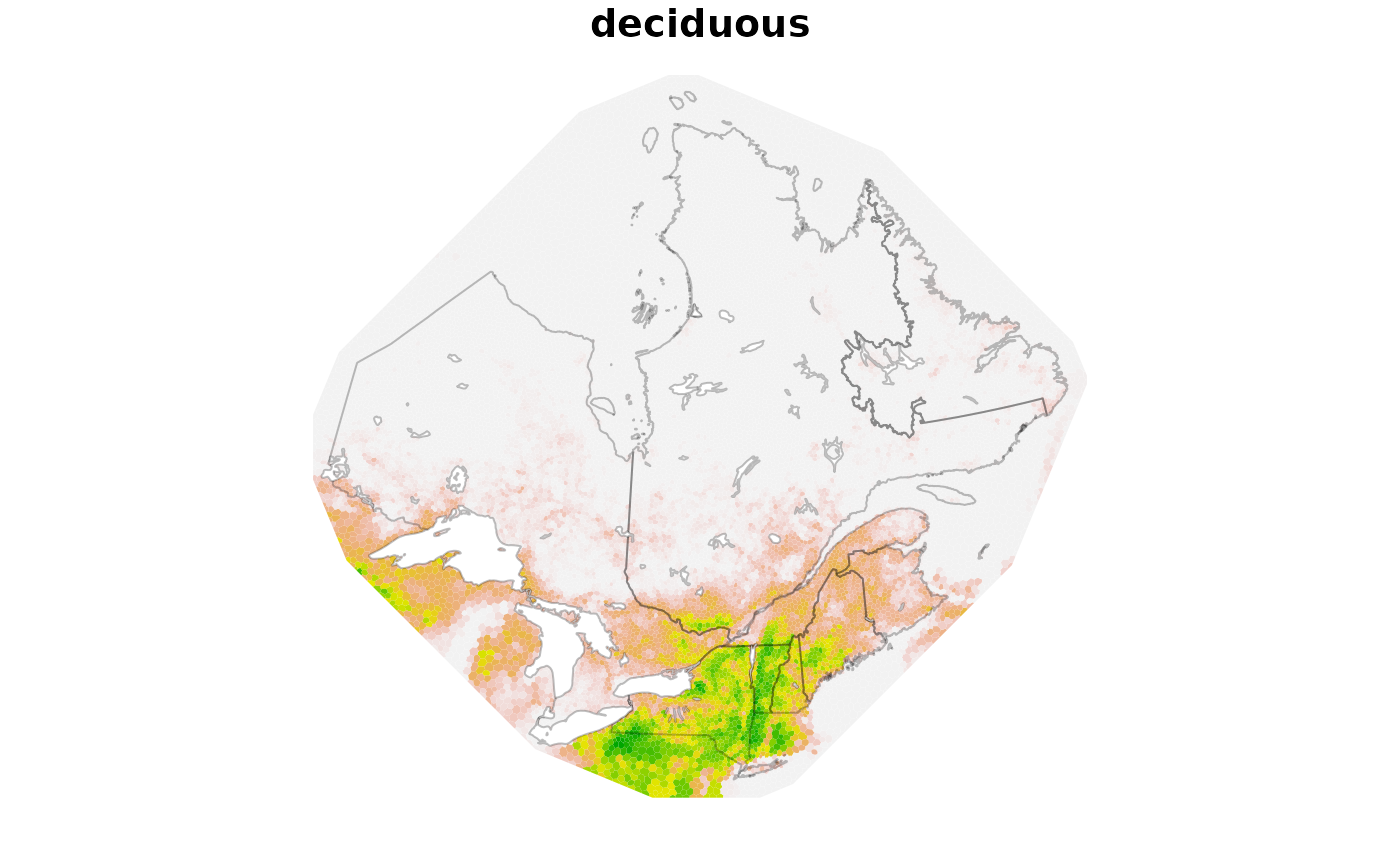
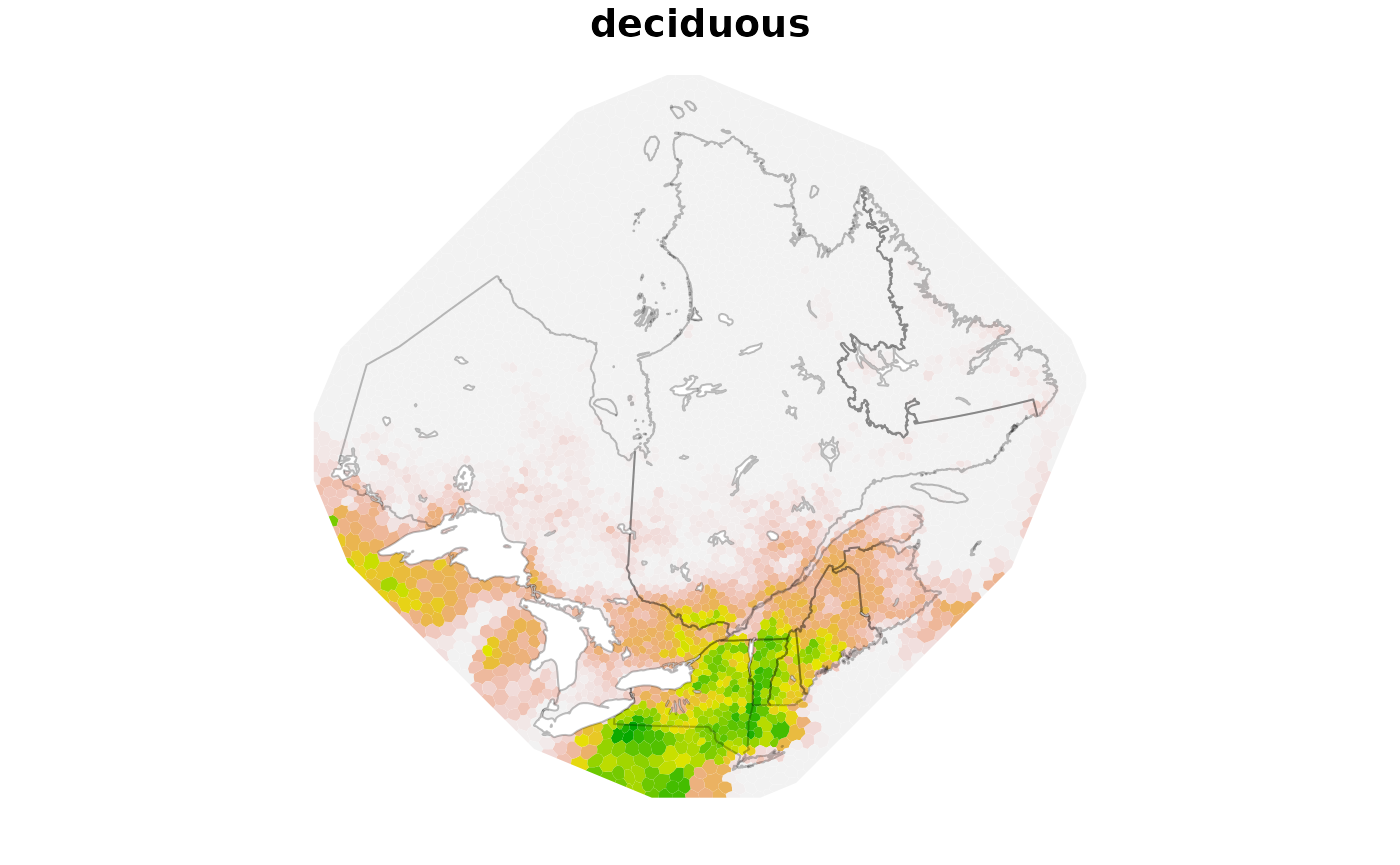
some minor updates

diff --git a/docs/articles/ewlgcpSDM.html b/docs/articles/ewlgcpSDM.html
@@ -36,6 +36,7 @@
 <li class="nav-item"><form class="form-inline" role="search">
  <input class="form-control" type="search" name="search-input" id="search-input" autocomplete="off" aria-label="Search site" placeholder="Search for" data-search-index="../search.json">
 </form></li>
+<li class="nav-item"><a class="external-link nav-link" href="https://github.com/BiodiversiteQuebec/ewlgcpSDM/" aria-label="GitHub"><span class="fa fab fa-github fa-lg"></span></a></li>
       </ul>
 </div>
 
@@ -52,7 +53,7 @@
       <h1>ewlgcpSDM</h1>
             
       
-
+      <small class="dont-index">Source: <a href="https://github.com/BiodiversiteQuebec/ewlgcpSDM/blob/HEAD/vignettes/ewlgcpSDM.Rmd" class="external-link"><code>vignettes/ewlgcpSDM.Rmd</code></a></small>
       <div class="d-none name"><code>ewlgcpSDM.Rmd</code></div>
     </div>
 
@@ -93,7 +94,6 @@ help with the mapping later.</p>
 <span><span class="co"># keep Québec and bordering provinces/states as a buffer</span></span>
 <span><span class="va">region</span> <span class="op">&lt;-</span> <span class="va">na</span><span class="op">[</span><span class="va">na</span><span class="op">$</span><span class="va">NAME_1</span> <span class="op"><a href="https://rspatial.github.io/terra/reference/match.html" class="external-link">%in%</a></span> <span class="fu"><a href="https://rdrr.io/r/base/c.html" class="external-link">c</a></span><span class="op">(</span><span class="st">"Québec"</span>, <span class="st">"New Brunswick"</span>, <span class="st">"Maine"</span>, <span class="st">"Vermont"</span>,</span>
 <span>    <span class="st">"New Hampshire"</span>, <span class="st">"New York"</span>, <span class="st">"Ontario"</span><span class="op">)</span>, <span class="op">]</span></span>
-<span></span>
 <span><span class="co"># split NF into different polygons</span></span>
 <span><span class="va">labrador</span> <span class="op">&lt;-</span> <span class="fu"><a href="https://rdrr.io/pkg/rmapshaper/man/ms_explode.html" class="external-link">ms_explode</a></span><span class="op">(</span><span class="va">na</span><span class="op">[</span><span class="va">na</span><span class="op">$</span><span class="va">NAME_1</span> <span class="op"><a href="https://rspatial.github.io/terra/reference/match.html" class="external-link">%in%</a></span> <span class="fu"><a href="https://rdrr.io/r/base/c.html" class="external-link">c</a></span><span class="op">(</span><span class="st">"Newfoundland and Labrador"</span><span class="op">)</span>,</span>
 <span>    <span class="op">]</span><span class="op">)</span></span>
@@ -101,8 +101,7 @@ help with the mapping later.</p>
 <span><span class="va">region</span> <span class="op">&lt;-</span> <span class="fu"><a href="https://rdrr.io/r/base/cbind.html" class="external-link">rbind</a></span><span class="op">(</span><span class="va">region</span>, <span class="va">labrador</span><span class="op">)</span></span>
 <span><span class="va">qc</span> <span class="op">&lt;-</span> <span class="fu"><a href="https://rdrr.io/pkg/rmapshaper/man/ms_simplify.html" class="external-link">ms_simplify</a></span><span class="op">(</span><span class="va">region</span>, <span class="fl">0.01</span><span class="op">)</span></span>
 <span></span>
-<span><span class="co"># Add it to the study region</span></span>
-<span><span class="va">region</span> <span class="op">&lt;-</span> <span class="fu"><a href="https://rdrr.io/r/base/cbind.html" class="external-link">rbind</a></span><span class="op">(</span><span class="va">region</span>, <span class="va">labrador</span><span class="op">)</span></span>
+<span><span class="co"># Add it to the study region region&lt;-rbind(region,labrador)</span></span>
 <span></span>
 <span><span class="co"># Simplify polygons to make things faster</span></span>
 <span><span class="va">region</span> <span class="op">&lt;-</span> <span class="fu"><a href="https://rdrr.io/pkg/rmapshaper/man/ms_simplify.html" class="external-link">ms_simplify</a></span><span class="op">(</span><span class="va">region</span>, <span class="fl">0.005</span><span class="op">)</span></span>
@@ -257,10 +256,10 @@ study area diameter and a relatively large outer area for reducing edge
 effects. See <a href="">virgilio</a> for advices on creating a good
 mesh.</p>
 <div class="sourceCode" id="cb10"><pre class="downlit sourceCode r">
-<code class="sourceCode R"><span><span class="va">pedge</span><span class="op">&lt;-</span><span class="fl">0.005</span></span>
+<code class="sourceCode R"><span><span class="va">pedge</span><span class="op">&lt;-</span><span class="fl">0.01</span></span>
 <span><span class="va">edge</span><span class="op">&lt;-</span><span class="fu"><a href="https://rdrr.io/r/base/Extremes.html" class="external-link">min</a></span><span class="op">(</span><span class="fu"><a href="https://rdrr.io/r/base/c.html" class="external-link">c</a></span><span class="op">(</span><span class="fu"><a href="https://rspatial.github.io/terra/reference/diff.html" class="external-link">diff</a></span><span class="op">(</span><span class="fu"><a href="https://r-spatial.github.io/sf/reference/st_bbox.html" class="external-link">st_bbox</a></span><span class="op">(</span><span class="va">region</span><span class="op">)</span><span class="op">[</span><span class="fu"><a href="https://rdrr.io/r/base/c.html" class="external-link">c</a></span><span class="op">(</span><span class="fl">1</span>,<span class="fl">3</span><span class="op">)</span><span class="op">]</span><span class="op">)</span><span class="op">*</span><span class="va">pedge</span>,<span class="fu"><a href="https://rspatial.github.io/terra/reference/diff.html" class="external-link">diff</a></span><span class="op">(</span><span class="fu"><a href="https://r-spatial.github.io/sf/reference/st_bbox.html" class="external-link">st_bbox</a></span><span class="op">(</span><span class="va">region</span><span class="op">)</span><span class="op">[</span><span class="fu"><a href="https://rdrr.io/r/base/c.html" class="external-link">c</a></span><span class="op">(</span><span class="fl">2</span>,<span class="fl">4</span><span class="op">)</span><span class="op">]</span><span class="op">)</span><span class="op">*</span><span class="va">pedge</span><span class="op">)</span><span class="op">)</span></span>
 <span><span class="va">edge</span></span>
-<span><span class="co">#&gt; [1] 12904.38</span></span>
+<span><span class="co">#&gt; [1] 25808.77</span></span>
 <span></span>
 <span><span class="va">mesh</span> <span class="op">&lt;-</span> <span class="fu"><a href="https://rdrr.io/pkg/INLA/man/inla.mesh.2d.html" class="external-link">inla.mesh.2d</a></span><span class="op">(</span>loc.domain <span class="op">=</span> <span class="cn">NULL</span>,</span>
 <span>                     max.edge <span class="op">=</span> <span class="fu"><a href="https://rdrr.io/r/base/c.html" class="external-link">c</a></span><span class="op">(</span><span class="va">edge</span>,<span class="va">edge</span><span class="op">*</span><span class="fl">3</span><span class="op">)</span>,</span>
@@ -329,40 +328,7 @@ species and of the background.</p>
 <div class="sourceCode" id="cb15"><pre class="downlit sourceCode r">
 <code class="sourceCode R"><span></span>
 <span><span class="va">params</span> <span class="op">&lt;-</span> <span class="fu"><a href="../reference/dmesh_effort.html">dmesh_effort</a></span><span class="op">(</span><span class="va">params</span>, obs <span class="op">=</span> <span class="va">obs</span>, background <span class="op">=</span> <span class="va">bg</span>, buffer <span class="op">=</span> <span class="va">buff</span>,</span>
-<span>    adjust <span class="op">=</span> <span class="cn">FALSE</span><span class="op">)</span></span>
-<span></span>
-<span><span class="co"># w &lt;- which((params$effort$nobs == params$effort$nbackground) &amp;</span></span>
-<span><span class="co"># (params$effort$nobs &gt; 0)) params$effort[w, 2:3] &lt;- params$effort[w,</span></span>
-<span><span class="co"># 2:3] * 500 hist(params$effort$nobs / params$effort$nbackground,</span></span>
-<span><span class="co"># breaks = 50)</span></span>
-<span></span>
-<span><span class="co"># w &lt;- which(params$weights == 0) params$effort[w, ] &lt;- 0</span></span>
-<span></span>
-<span><span class="co"># w &lt;- which(params$effort$nbackground &gt; 0) params$effort[w, 2:3] &lt;-</span></span>
-<span><span class="co"># params$effort[w, 1]</span></span>
-<span></span>
-<span><span class="co"># plot(sdm$mean) plot(st_geometry(params$dmesh),add=T)</span></span>
-<span><span class="co"># text(st_coordinates(st_centroid(params$dmesh)), label =</span></span>
-<span><span class="co"># 1:nrow(params$dmesh), cex = 0.5)</span></span>
-<span></span>
-<span><span class="co"># params$effort[c(30, 139),]</span></span>
-<span></span>
-<span><span class="co"># source('https://raw.githubusercontent.com/frousseu/FRutils/refs/heads/master/R/colo.scale.R')</span></span>
-<span><span class="co"># par(mar=c(0,0,0,0)) plot(st_geometry(params$dmesh), col =</span></span>
-<span><span class="co"># colo.scale(params$effort$nobs / params$effort$nbackground,</span></span>
-<span><span class="co"># c('gold', 'forestgreen'))) plot(st_geometry(params$dmesh), col =</span></span>
-<span><span class="co"># colo.scale(ifelse(params$weights &gt; 0, params$weights, NA),</span></span>
-<span><span class="co"># c('gold', 'forestgreen'))) plot(st_geometry(region), add = TRUE)</span></span>
-<span></span>
-<span></span>
-<span><span class="co"># plot(st_geometry(region), add = TRUE)</span></span>
-<span><span class="co"># plot(st_geometry(params$dmesh), add = TRUE)</span></span>
-<span></span>
-<span><span class="co"># mapview(region) + mapview(params$dmesh)</span></span>
-<span></span>
-<span><span class="co"># plot(sdm$mean) plot(st_geometry(region), border = 'red', lwd = 1,</span></span>
-<span><span class="co"># add = T) plot(st_geometry(params$dmeshcuts), border = 'red', add =</span></span>
-<span><span class="co"># T) plot(mesh, add = T)</span></span></code></pre></div>
+<span>    adjust <span class="op">=</span> <span class="cn">FALSE</span><span class="op">)</span></span></code></pre></div>
 </div>
 </div>
 <div class="section level3">
@@ -385,7 +351,6 @@ inhomogeneous point process weighted for effort.</p>
 <span>  prior.sigma <span class="op">=</span> <span class="fu"><a href="https://rdrr.io/r/base/c.html" class="external-link">c</a></span><span class="op">(</span><span class="fl">0.00001</span>, <span class="cn">NA</span><span class="op">)</span>,</span>
 <span>  smooth <span class="op">=</span> <span class="fl">2</span>,</span>
 <span>  num.threads<span class="op">=</span><span class="fl">2</span><span class="op">:</span><span class="fl">2</span>,</span>
-<span>  <span class="co">#blas.num.threads=2,</span></span>
 <span>  control.inla<span class="op">=</span><span class="fu"><a href="https://rdrr.io/r/base/list.html" class="external-link">list</a></span><span class="op">(</span></span>
 <span>    strategy<span class="op">=</span><span class="st">"adaptive"</span>, <span class="co"># "adaptive"</span></span>
 <span>    int.strategy<span class="op">=</span><span class="st">"eb"</span>, <span class="co"># "eb"</span></span>
@@ -435,30 +400,7 @@ the link scale.</p>
 <span><span class="fu">add_shp</span><span class="op">(</span><span class="op">)</span></span></code></pre></div>
 <p><img src="ewlgcpSDM_files/figure-html/unnamed-chunk-18-1.png" width="700"></p>
 <div class="sourceCode" id="cb19"><pre class="downlit sourceCode r">
-<code class="sourceCode R"><span><span class="fu"><a href="https://rdrr.io/r/graphics/par.html" class="external-link">par</a></span><span class="op">(</span>mfrow <span class="op">=</span> <span class="fu"><a href="https://rdrr.io/r/base/c.html" class="external-link">c</a></span><span class="op">(</span><span class="fl">1</span>, <span class="fl">1</span><span class="op">)</span>, mar <span class="op">=</span> <span class="fu"><a href="https://rdrr.io/r/base/c.html" class="external-link">c</a></span><span class="op">(</span><span class="fl">4</span>, <span class="fl">4</span>, <span class="fl">3</span>, <span class="fl">3</span><span class="op">)</span><span class="op">)</span></span>
-<span></span>
-<span></span>
-<span><span class="co"># plot(exp(sdm$linkmean-sdm$spacemean))</span></span>
-<span><span class="co"># plot(mask(exp(sdm$linkmean-sdm$spacemean), vect(region)))</span></span>
-<span><span class="co"># plot(sdm$spacemean) plot(sdm$mean)</span></span>
-<span></span>
-<span><span class="co"># source('https://raw.githubusercontent.com/frousseu/FRutils/refs/heads/master/R/colo.scale.R')</span></span>
-<span><span class="co"># par(mfrow = c(1, 2), mar=c(0,0,0,0)) plot(sdm$spacemean, mar = c(0,</span></span>
-<span><span class="co"># 0, 0, 0)) plot(st_geometry(region), add = TRUE) rat &lt;-</span></span>
-<span><span class="co"># params$effort$nobs / params$effort$nbackground rat &lt;- ifelse(rat ==</span></span>
-<span><span class="co"># 0, NA, rat) plot(st_geometry(params$dmesh), border = NA, col =</span></span>
-<span><span class="co"># colo.scale(rat, c('gold', 'forestgreen')))</span></span>
-<span><span class="co"># plot(st_geometry(region), add = TRUE)</span></span>
-<span></span>
-<span></span>
-<span><span class="co"># e &lt;- extract(sdm$mean, params$dmesh, fun = mean, na.rm = T)</span></span>
-<span><span class="co"># plot(e[, 2], params$effort$nobs / params$effort$nbackground)</span></span>
-<span></span>
-<span><span class="co"># r2 &lt;- sdm$mean r2 &lt;- exp(sdm$linkmean-sdm$spacemean) plot(c(r1,</span></span>
-<span><span class="co"># r2), range = range(global(c(r1, r2), 'range', na.rm = T)), mar =</span></span>
-<span><span class="co"># c(0, 0, 0, 7)) plot(r2-r1, col =</span></span>
-<span><span class="co"># colo.scale(sort(unique(values(r2-r1)[,1])),</span></span>
-<span><span class="co"># c('blue','white','red'), center = TRUE))</span></span></code></pre></div>
+<code class="sourceCode R"><span><span class="fu"><a href="https://rdrr.io/r/graphics/par.html" class="external-link">par</a></span><span class="op">(</span>mfrow <span class="op">=</span> <span class="fu"><a href="https://rdrr.io/r/base/c.html" class="external-link">c</a></span><span class="op">(</span><span class="fl">1</span>, <span class="fl">1</span><span class="op">)</span>, mar <span class="op">=</span> <span class="fu"><a href="https://rdrr.io/r/base/c.html" class="external-link">c</a></span><span class="op">(</span><span class="fl">4</span>, <span class="fl">4</span>, <span class="fl">3</span>, <span class="fl">3</span><span class="op">)</span><span class="op">)</span></span></code></pre></div>
 </div>
 </div>
   </main><aside class="col-md-3"><nav id="toc" aria-label="Table of contents"><h2>On this page</h2>

diff --git a/docs/index.html b/docs/index.html
@@ -38,6 +38,7 @@
 <li class="nav-item"><form class="form-inline" role="search">
  <input class="form-control" type="search" name="search-input" id="search-input" autocomplete="off" aria-label="Search site" placeholder="Search for" data-search-index="search.json">
 </form></li>
+<li class="nav-item"><a class="external-link nav-link" href="https://github.com/BiodiversiteQuebec/ewlgcpSDM/" aria-label="GitHub"><span class="fa fab fa-github fa-lg"></span></a></li>
       </ul>
 </div>
 
@@ -48,7 +49,7 @@
   <main id="main" class="col-md-9"><div class="section level1">
 <div class="page-header"><h1 id="ewlgcpsdm">ewlgcpSDM<a class="anchor" aria-label="anchor" href="#ewlgcpsdm"></a>
 </h1></div>
-<p>ewlgcpSDM (<strong>e</strong>ffort-<strong>w</strong>eighted <strong>L</strong>og-<strong>G</strong>aussian <strong>C</strong>ox <strong>P</strong>rocess <strong>s</strong>pecies <strong>d</strong>istribution <strong>m</strong>odels) is a package for inferring species distributions using presence-only data and point process models. In particular, it implements the Log-Gaussian Cox process and adjusts for sampling effort by weighting the thinned surface through and estimate of the effort. The effort surface is derived through a method analogous to Target-Group Background selection <a href="https://doi.org/10.1890/07-2153.1" class="external-link">Phillips <em>et al</em>. 2009</a>, whereas the sampling effort is approximated by grouping all observations of a target group of similar species. The implementation is adapted from the method proposed by <a href="https://doi.org/10.1093/biomet/asv064" class="external-link">Simpson <em>et al</em>. (2016)</a> using <a href="https://www.r-inla.org/" class="external-link">INLA</a> (<a href="https://doi.org/10.1111/j.1467-9868.2008.00700.x" class="external-link">Rue <em>et al</em>. 2009</a>).</p>
+<p>ewlgcpSDM (<strong>e</strong>ffort-<strong>w</strong>eighted <strong>L</strong>og-<strong>G</strong>aussian <strong>C</strong>ox <strong>P</strong>rocess <strong>s</strong>pecies <strong>d</strong>istribution <strong>m</strong>odels) is a package for inferring species distributions using presence-only data and point process models. In particular, it implements the Log-Gaussian Cox process and adjusts for sampling effort by weighting the thinned surface through and estimate of the effort. The effort surface is derived through a method analogous to Target-Group Background selection <a href="https://doi.org/10.1890/07-2153.1" class="external-link">Phillips <em>et al</em>. 2009</a>, whereas the sampling effort is approximated by grouping all observations of a target group of similar species. The implementation is adapted from the method proposed by <a href="https://doi.org/10.1093/biomet/asv064" class="external-link">Simpson <em>et al</em>. (2016)</a> using <a href="https://www.r-inla.org/" class="external-link">INLA</a> (<a href="https://doi.org/10.1111/j.1467-9868.2008.00700.x" class="external-link">Rue <em>et al</em>. 2009</a>). Some of the results from an upcoming paper can be seen <a href="https://frousseu.github.io/sdm_rbq/misc/paper.html" class="external-link">here</a>.</p>
 <div class="section level2">
 <h2 id="installation">Installation<a class="anchor" aria-label="anchor" href="#installation"></a>
 </h2>
@@ -57,7 +58,7 @@
 <code class="sourceCode R"><span><span class="fu"><a href="https://rdrr.io/r/utils/install.packages.html" class="external-link">install.packages</a></span><span class="op">(</span><span class="st">"INLA"</span>,repos<span class="op">=</span><span class="fu"><a href="https://rdrr.io/r/base/c.html" class="external-link">c</a></span><span class="op">(</span><span class="fu"><a href="https://rdrr.io/r/base/options.html" class="external-link">getOption</a></span><span class="op">(</span><span class="st">"repos"</span><span class="op">)</span>,INLA<span class="op">=</span><span class="st">"https://inla.r-inla-download.org/R/stable"</span><span class="op">)</span>, dep<span class="op">=</span><span class="cn">TRUE</span><span class="op">)</span></span></code></pre></div>
 <p>Then, ewlgcpSDM can be installed directly from GitHub like this:</p>
 <div class="sourceCode" id="cb2"><pre class="downlit sourceCode r">
-<code class="sourceCode R"><span><span class="fu">remotes</span><span class="fu">::</span><span class="fu"><a href="https://remotes.r-lib.org/reference/install_github.html" class="external-link">install_github</a></span><span class="op">(</span><span class="st">"frousseu/ewlgcpSDM"</span><span class="op">)</span></span></code></pre></div>
+<code class="sourceCode R"><span><span class="fu">remotes</span><span class="fu">::</span><span class="fu"><a href="https://remotes.r-lib.org/reference/install_github.html" class="external-link">install_github</a></span><span class="op">(</span><span class="st">"BiodiversiteQuebec/ewlgcpSDM"</span><span class="op">)</span></span></code></pre></div>
 </div>
 <div class="section level2">
 <h2 id="references">References<a class="anchor" aria-label="anchor" href="#references"></a>
@@ -67,7 +68,15 @@
 <p>Simpson, D., Illian, J. B., Lindgren, F., Sørbye, S. H. and Rue, H. 2016. Going off grid: computationally efficient inference for log-Gaussian Cox processes. Biometrika, 103(1): 49-70 <a href="https://doi.org/10.1093/biomet/asv064" class="external-link">https://doi.org/10.1093/biomet/asv064</a></p>
 </div>
 </div>
-  </main><aside class="col-md-3"><div class="license">
+  </main><aside class="col-md-3"><div class="links">
+<h2 data-toc-skip>Links</h2>
+<ul class="list-unstyled">
+<li><a href="https://github.com/BiodiversiteQuebec/ewlgcpSDM/" class="external-link">Browse source code</a></li>
+<li><a href="https://github.com/BiodiversiteQuebec/ewlgcpSDM/issues" class="external-link">Report a bug</a></li>
+</ul>
+</div>
+
+<div class="license">
 <h2 data-toc-skip>License</h2>
 <ul class="list-unstyled">
 <li>`use_gpl3_license()`</li>

diff --git a/docs/authors.html b/docs/authors.html
@@ -19,6 +19,7 @@
 <li class="nav-item"><a class="nav-link" href="reference/index.html">Reference</a></li>
       </ul><ul class="navbar-nav"><li class="nav-item"><form class="form-inline" role="search">
  <input class="form-control" type="search" name="search-input" id="search-input" autocomplete="off" aria-label="Search site" placeholder="Search for" data-search-index="search.json"></form></li>
+<li class="nav-item"><a class="external-link nav-link" href="https://github.com/BiodiversiteQuebec/ewlgcpSDM/" aria-label="GitHub"><span class="fa fab fa-github fa-lg"></span></a></li>
       </ul></div>
 
 
@@ -45,17 +46,17 @@
 
     <div class="section level2">
       <h2 id="citation">Citation</h2>
-      <p></p>
+      <p><small class="dont-index">Source: <a href="https://github.com/BiodiversiteQuebec/ewlgcpSDM/blob/HEAD/DESCRIPTION" class="external-link"><code>DESCRIPTION</code></a></small></p>
 
       <p>Blanchet G, Rousseu F (2024).
 <em>ewlgcpSDM: Effort-Weighted Log Gaussian Cox Process Species Distribution Model</em>.
-R package version 0.0.0.1000, <a href="https://biodiversitequebec.github.io/ewlgcpSDM/">https://biodiversitequebec.github.io/ewlgcpSDM/</a>.
+R package version 0.0.0.1000, https://github.com/BiodiversiteQuebec/ewlgcpSDM, <a href="https://biodiversitequebec.github.io/ewlgcpSDM/">https://biodiversitequebec.github.io/ewlgcpSDM/</a>.
 </p>
       <pre>@Manual{,
   title = {ewlgcpSDM: Effort-Weighted Log Gaussian Cox Process Species Distribution Model},
   author = {Guillaume Blanchet and François Rousseu},
   year = {2024},
-  note = {R package version 0.0.0.1000},
+  note = {R package version 0.0.0.1000, https://github.com/BiodiversiteQuebec/ewlgcpSDM},
   url = {https://biodiversitequebec.github.io/ewlgcpSDM/},
 }</pre>
     </div>

diff --git a/docs/reference/dmesh_predictors.html b/docs/reference/dmesh_predictors.html
@@ -19,6 +19,7 @@
 <li class="active nav-item"><a class="nav-link" href="../reference/index.html">Reference</a></li>
       </ul><ul class="navbar-nav"><li class="nav-item"><form class="form-inline" role="search">
  <input class="form-control" type="search" name="search-input" id="search-input" autocomplete="off" aria-label="Search site" placeholder="Search for" data-search-index="../search.json"></form></li>
+<li class="nav-item"><a class="external-link nav-link" href="https://github.com/BiodiversiteQuebec/ewlgcpSDM/" aria-label="GitHub"><span class="fa fab fa-github fa-lg"></span></a></li>
       </ul></div>
 
 
@@ -28,7 +29,7 @@
   <main id="main" class="col-md-9"><div class="page-header">
 
       <h1>Summarize predictors to dual mesh</h1>
-
+      <small class="dont-index">Source: <a href="https://github.com/BiodiversiteQuebec/ewlgcpSDM/blob/HEAD/R/dmesh_predictors.R" class="external-link"><code>R/dmesh_predictors.R</code></a></small>
       <div class="d-none name"><code>dmesh_predictors.Rd</code></div>
     </div>
 

diff --git a/docs/reference/dmesh_effort.html b/docs/reference/dmesh_effort.html
@@ -19,6 +19,7 @@
 <li class="active nav-item"><a class="nav-link" href="../reference/index.html">Reference</a></li>
       </ul><ul class="navbar-nav"><li class="nav-item"><form class="form-inline" role="search">
  <input class="form-control" type="search" name="search-input" id="search-input" autocomplete="off" aria-label="Search site" placeholder="Search for" data-search-index="../search.json"></form></li>
+<li class="nav-item"><a class="external-link nav-link" href="https://github.com/BiodiversiteQuebec/ewlgcpSDM/" aria-label="GitHub"><span class="fa fab fa-github fa-lg"></span></a></li>
       </ul></div>
 
 
@@ -28,7 +29,7 @@
   <main id="main" class="col-md-9"><div class="page-header">
 
       <h1>Summarize effort to dual mesh</h1>
-
+      <small class="dont-index">Source: <a href="https://github.com/BiodiversiteQuebec/ewlgcpSDM/blob/HEAD/R/dmesh_effort.R" class="external-link"><code>R/dmesh_effort.R</code></a></small>
       <div class="d-none name"><code>dmesh_effort.Rd</code></div>
     </div>
 

diff --git a/docs/reference/ewlgcp.html b/docs/reference/ewlgcp.html
@@ -19,6 +19,7 @@
 <li class="active nav-item"><a class="nav-link" href="../reference/index.html">Reference</a></li>
       </ul><ul class="navbar-nav"><li class="nav-item"><form class="form-inline" role="search">
  <input class="form-control" type="search" name="search-input" id="search-input" autocomplete="off" aria-label="Search site" placeholder="Search for" data-search-index="../search.json"></form></li>
+<li class="nav-item"><a class="external-link nav-link" href="https://github.com/BiodiversiteQuebec/ewlgcpSDM/" aria-label="GitHub"><span class="fa fab fa-github fa-lg"></span></a></li>
       </ul></div>
 
 
@@ -28,7 +29,7 @@
   <main id="main" class="col-md-9"><div class="page-header">
 
       <h1>Effort-Weighted Log Gaussian Cox Process SDM</h1>
-
+      <small class="dont-index">Source: <a href="https://github.com/BiodiversiteQuebec/ewlgcpSDM/blob/HEAD/R/ewlgcp.R" class="external-link"><code>R/ewlgcp.R</code></a></small>
       <div class="d-none name"><code>ewlgcp.Rd</code></div>
     </div>
 

diff --git a/docs/reference/dmesh_mesh.html b/docs/reference/dmesh_mesh.html
@@ -19,6 +19,7 @@
 <li class="active nav-item"><a class="nav-link" href="../reference/index.html">Reference</a></li>
       </ul><ul class="navbar-nav"><li class="nav-item"><form class="form-inline" role="search">
  <input class="form-control" type="search" name="search-input" id="search-input" autocomplete="off" aria-label="Search site" placeholder="Search for" data-search-index="../search.json"></form></li>
+<li class="nav-item"><a class="external-link nav-link" href="https://github.com/BiodiversiteQuebec/ewlgcpSDM/" aria-label="GitHub"><span class="fa fab fa-github fa-lg"></span></a></li>
       </ul></div>
 
 
@@ -28,7 +29,7 @@
   <main id="main" class="col-md-9"><div class="page-header">
 
       <h1>From INLA mesh to dual mesh</h1>
-
+      <small class="dont-index">Source: <a href="https://github.com/BiodiversiteQuebec/ewlgcpSDM/blob/HEAD/R/dmesh_mesh.R" class="external-link"><code>R/dmesh_mesh.R</code></a></small>
       <div class="d-none name"><code>dmesh_mesh.Rd</code></div>
     </div>
 

diff --git a/docs/reference/dmesh_weights.html b/docs/reference/dmesh_weights.html
@@ -19,6 +19,7 @@
 <li class="active nav-item"><a class="nav-link" href="../reference/index.html">Reference</a></li>
       </ul><ul class="navbar-nav"><li class="nav-item"><form class="form-inline" role="search">
  <input class="form-control" type="search" name="search-input" id="search-input" autocomplete="off" aria-label="Search site" placeholder="Search for" data-search-index="../search.json"></form></li>
+<li class="nav-item"><a class="external-link nav-link" href="https://github.com/BiodiversiteQuebec/ewlgcpSDM/" aria-label="GitHub"><span class="fa fab fa-github fa-lg"></span></a></li>
       </ul></div>
 
 
@@ -28,7 +29,7 @@
   <main id="main" class="col-md-9"><div class="page-header">
 
       <h1>Dual Mesh Weights</h1>
-
+      <small class="dont-index">Source: <a href="https://github.com/BiodiversiteQuebec/ewlgcpSDM/blob/HEAD/R/dmesh_weights.R" class="external-link"><code>R/dmesh_weights.R</code></a></small>
       <div class="d-none name"><code>dmesh_weights.Rd</code></div>
     </div>
 

diff --git a/docs/reference/map.html b/docs/reference/map.html
@@ -19,6 +19,7 @@
 <li class="active nav-item"><a class="nav-link" href="../reference/index.html">Reference</a></li>
       </ul><ul class="navbar-nav"><li class="nav-item"><form class="form-inline" role="search">
  <input class="form-control" type="search" name="search-input" id="search-input" autocomplete="off" aria-label="Search site" placeholder="Search for" data-search-index="../search.json"></form></li>
+<li class="nav-item"><a class="external-link nav-link" href="https://github.com/BiodiversiteQuebec/ewlgcpSDM/" aria-label="GitHub"><span class="fa fab fa-github fa-lg"></span></a></li>
       </ul></div>
 
 
@@ -28,7 +29,7 @@
   <main id="main" class="col-md-9"><div class="page-header">
 
       <h1>Construct species distribution maps models</h1>
-
+      <small class="dont-index">Source: <a href="https://github.com/BiodiversiteQuebec/ewlgcpSDM/blob/HEAD/R/map.R" class="external-link"><code>R/map.R</code></a></small>
       <div class="d-none name"><code>map.Rd</code></div>
     </div>
 

diff --git a/docs/reference/index.html b/docs/reference/index.html
@@ -19,6 +19,7 @@
 <li class="active nav-item"><a class="nav-link" href="../reference/index.html">Reference</a></li>
       </ul><ul class="navbar-nav"><li class="nav-item"><form class="form-inline" role="search">
  <input class="form-control" type="search" name="search-input" id="search-input" autocomplete="off" aria-label="Search site" placeholder="Search for" data-search-index="../search.json"></form></li>
+<li class="nav-item"><a class="external-link nav-link" href="https://github.com/BiodiversiteQuebec/ewlgcpSDM/" aria-label="GitHub"><span class="fa fab fa-github fa-lg"></span></a></li>
       </ul></div>
 
 

diff --git a/docs/articles/index.html b/docs/articles/index.html
@@ -19,6 +19,7 @@
 <li class="nav-item"><a class="nav-link" href="../reference/index.html">Reference</a></li>
       </ul><ul class="navbar-nav"><li class="nav-item"><form class="form-inline" role="search">
  <input class="form-control" type="search" name="search-input" id="search-input" autocomplete="off" aria-label="Search site" placeholder="Search for" data-search-index="../search.json"></form></li>
+<li class="nav-item"><a class="external-link nav-link" href="https://github.com/BiodiversiteQuebec/ewlgcpSDM/" aria-label="GitHub"><span class="fa fab fa-github fa-lg"></span></a></li>
       </ul></div>
 
 

diff --git a/docs/404.html b/docs/404.html
@@ -36,6 +36,7 @@
 <li class="nav-item"><form class="form-inline" role="search">
  <input class="form-control" type="search" name="search-input" id="search-input" autocomplete="off" aria-label="Search site" placeholder="Search for" data-search-index="search.json">
 </form></li>
+<li class="nav-item"><a class="external-link nav-link" href="https://github.com/BiodiversiteQuebec/ewlgcpSDM/" aria-label="GitHub"><span class="fa fab fa-github fa-lg"></span></a></li>
       </ul>
 </div>
 
